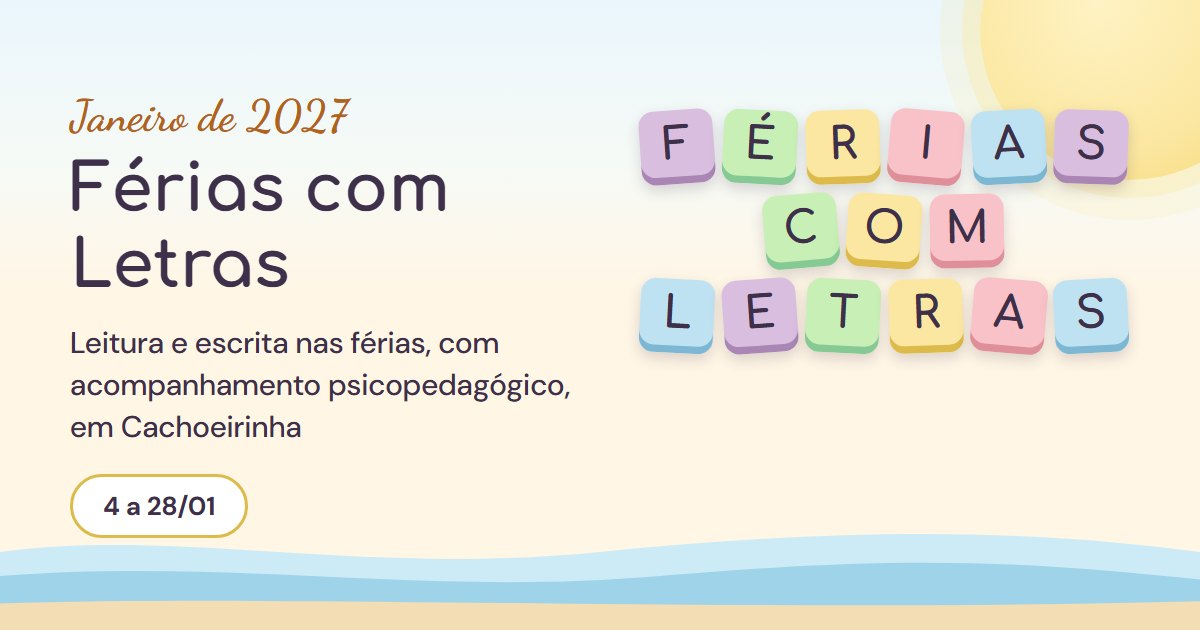
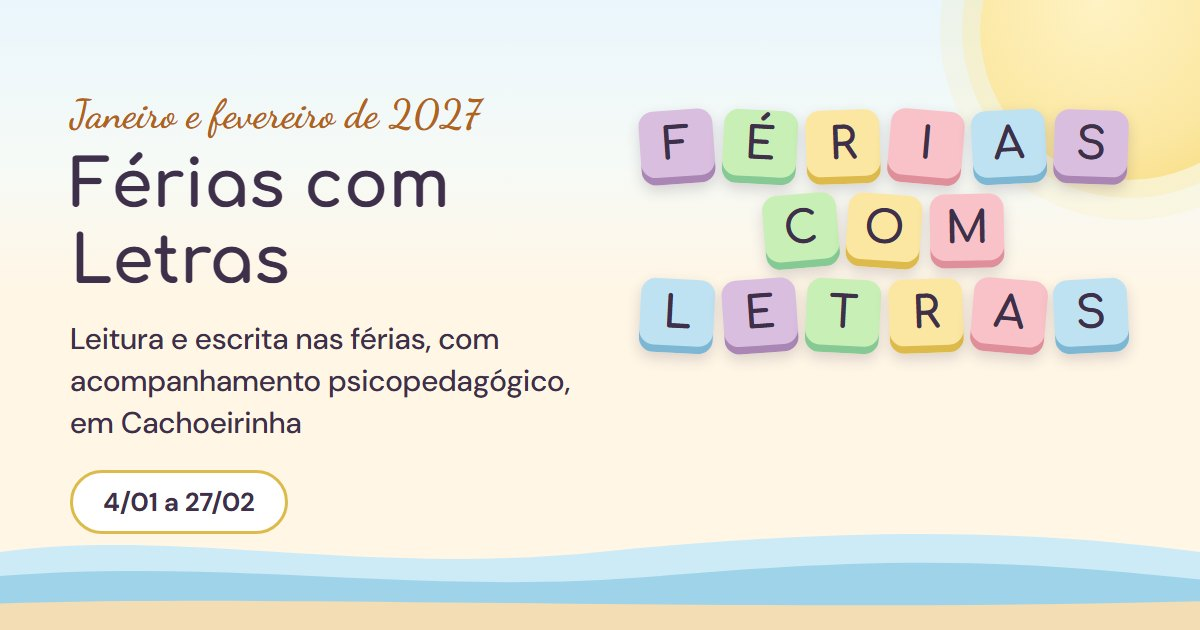
Amplia o Férias com Letras para janeiro e fevereiro
O programa vale de 4 de janeiro a 27 de fevereiro de 2027, com pausa de 29/01
a 10/02 nas férias do consultório. Ajusta textos, regra de falta, perguntas e o
calendário da página.

diff --git a/site/ferias-com-letras/index.html b/site/ferias-com-letras/index.html
@@ -5,7 +5,7 @@
   <meta name="viewport" content="width=device-width, initial-scale=1.0">
 
   <title>Férias com Letras: reforço de leitura e escrita nas férias | Cachoeirinha</title>
-  <meta name="description" content="Em janeiro de 2027, atendimento psicopedagógico individual de leitura e escrita para crianças de 5 a 9 anos, em Cachoeirinha/RS. Planos de 4 ou 8 sessões, de 4 a 28 de janeiro.">
+  <meta name="description" content="Em janeiro e fevereiro de 2027, atendimento psicopedagógico individual de leitura e escrita para crianças de 5 a 9 anos, em Cachoeirinha/RS. Planos de 4 ou 8 sessões, até 27 de fevereiro.">
   <meta name="author" content="Larissa Nunes">
   <meta name="robots" content="noindex, follow">
   <link rel="canonical" href="https://larissanunes.com.br/ferias-com-letras/">
@@ -15,7 +15,7 @@
   <meta property="og:url" content="https://larissanunes.com.br/ferias-com-letras/">
   <meta property="og:site_name" content="Larissa Nunes — Neuro Psicopedagoga">
   <meta property="og:title" content="Férias com Letras: reforço de leitura e escrita nas férias | Cachoeirinha">
-  <meta property="og:description" content="Em janeiro de 2027, atendimento psicopedagógico individual de leitura e escrita para crianças de 5 a 9 anos, em Cachoeirinha/RS. Planos de 4 ou 8 sessões, de 4 a 28 de janeiro.">
+  <meta property="og:description" content="Em janeiro e fevereiro de 2027, atendimento psicopedagógico individual de leitura e escrita para crianças de 5 a 9 anos, em Cachoeirinha/RS. Planos de 4 ou 8 sessões, até 27 de fevereiro.">
   <meta property="og:image" content="https://larissanunes.com.br/assets/img/ferias-com-letras/og.jpg">
   <meta property="og:image:width" content="1200">
   <meta property="og:image:height" content="1200">
@@ -67,7 +67,7 @@
     {
       "@type": "Service",
       "name": "Férias com Letras: leitura e escrita nas férias",
-      "description": "Em janeiro de 2027, atendimento psicopedagógico individual de leitura e escrita para crianças de 5 a 9 anos, em Cachoeirinha/RS. Planos de 4 ou 8 sessões, de 4 a 28 de janeiro.",
+      "description": "Em janeiro e fevereiro de 2027, atendimento psicopedagógico individual de leitura e escrita para crianças de 5 a 9 anos, em Cachoeirinha/RS. Planos de 4 ou 8 sessões, até 27 de fevereiro.",
       "provider": {
         "@id": "https://larissanunes.com.br/#business"
       },
@@ -123,15 +123,23 @@
           "name": "E se a criança faltar?",
           "acceptedAnswer": {
             "@type": "Answer",
-            "text": "Avisando com 24 horas de antecedência, a sessão é remarcada até 28/01. Se não houver horário, o valor da sessão é devolvido."
+            "text": "Avisando com 24 horas de antecedência, a sessão é remarcada até 27/02. Se não houver horário, o valor da sessão é devolvido."
           }
         },
         {
           "@type": "Question",
-          "name": "O que acontece depois de janeiro?",
+          "name": "Posso fazer as sessões só em fevereiro?",
           "acceptedAnswer": {
             "@type": "Answer",
-            "text": "Você recebe um retorno por escrito. Se fizer sentido continuar, o acompanhamento segue a partir de fevereiro, depois do Carnaval."
+            "text": "Pode. As sessões dos planos podem ser marcadas de 4 a 28 de janeiro e de 11 a 27 de fevereiro, conforme os horários livres."
+          }
+        },
+        {
+          "@type": "Question",
+          "name": "O que acontece depois do programa?",
+          "acceptedAnswer": {
+            "@type": "Answer",
+            "text": "Você recebe um retorno por escrito. Se fizer sentido continuar, o acompanhamento segue normalmente a partir de março."
           }
         }
       ]
@@ -186,8 +194,8 @@
         <nav class="trilha" aria-label="Você está em"><a href="/">Início</a> <span aria-hidden="true">›</span> <span>Férias com Letras</span></nav>
         <span class="blocos" aria-hidden="true"><span class="bloco bloco--sol">F</span></span>
         <h1 class="pagina-topo__titulo">Férias com Letras: leitura e escrita nas férias</h1>
-        <p class="pagina-topo__lead">De 4 a 28 de janeiro de 2027, atendimento individual para crianças que estão aprendendo a ler e escrever. Não é aula de reforço: é acompanhamento psicopedagógico, com jogos e no ritmo de cada criança.</p>
-        <a href="https://wa.me/5551984723551?text=Ol%C3%A1%2C%20Larissa%21%20Vi%20o%20F%C3%A9rias%20com%20Letras%20no%20site%20e%20quero%20saber%20das%20vagas%20de%20janeiro." class="btn btn--acao btn--grande" target="_blank" rel="noopener"><svg width="20" height="20" viewBox="0 0 24 24" fill="currentColor" aria-hidden="true"><path d="M17.472 14.382c-.297-.149-1.758-.867-2.03-.967-.273-.099-.471-.148-.67.15-.197.297-.767.966-.94 1.164-.173.199-.347.223-.644.075-.297-.15-1.255-.463-2.39-1.475-.883-.788-1.48-1.761-1.653-2.059-.173-.297-.018-.458.13-.606.134-.133.298-.347.446-.52.149-.174.198-.298.298-.497.099-.198.05-.371-.025-.52-.075-.149-.669-1.612-.916-2.207-.242-.579-.487-.5-.669-.51-.173-.008-.371-.01-.57-.01-.198 0-.52.074-.792.372-.272.297-1.04 1.016-1.04 2.479 0 1.462 1.065 2.875 1.213 3.074.149.198 2.096 3.2 5.077 4.487.709.306 1.262.489 1.694.625.712.227 1.36.195 1.871.118.571-.085 1.758-.719 2.006-1.413.248-.694.248-1.289.173-1.413-.074-.124-.272-.198-.57-.347z"/><path d="M12 0C5.373 0 0 5.373 0 12c0 2.625.846 5.059 2.284 7.034L.789 23.492a.5.5 0 00.611.611l4.458-1.495A11.94 11.94 0 0012 24c6.627 0 12-5.373 12-12S18.627 0 12 0zm0 22c-2.387 0-4.597-.838-6.328-2.236l-.442-.37-3.234 1.084 1.084-3.234-.37-.442A9.96 9.96 0 012 12C2 6.477 6.477 2 12 2s10 4.477 10 10-4.477 10-10 10z"/></svg> Quero saber das vagas</a>
+        <p class="pagina-topo__lead">De 4 de janeiro a 27 de fevereiro de 2027, atendimento individual para crianças que estão aprendendo a ler e escrever. Não é aula de reforço: é acompanhamento psicopedagógico, com jogos e no ritmo de cada criança.</p>
+        <a href="https://wa.me/5551984723551?text=Ol%C3%A1%2C%20Larissa%21%20Vi%20o%20F%C3%A9rias%20com%20Letras%20no%20site%20e%20quero%20saber%20das%20vagas." class="btn btn--acao btn--grande" target="_blank" rel="noopener"><svg width="20" height="20" viewBox="0 0 24 24" fill="currentColor" aria-hidden="true"><path d="M17.472 14.382c-.297-.149-1.758-.867-2.03-.967-.273-.099-.471-.148-.67.15-.197.297-.767.966-.94 1.164-.173.199-.347.223-.644.075-.297-.15-1.255-.463-2.39-1.475-.883-.788-1.48-1.761-1.653-2.059-.173-.297-.018-.458.13-.606.134-.133.298-.347.446-.52.149-.174.198-.298.298-.497.099-.198.05-.371-.025-.52-.075-.149-.669-1.612-.916-2.207-.242-.579-.487-.5-.669-.51-.173-.008-.371-.01-.57-.01-.198 0-.52.074-.792.372-.272.297-1.04 1.016-1.04 2.479 0 1.462 1.065 2.875 1.213 3.074.149.198 2.096 3.2 5.077 4.487.709.306 1.262.489 1.694.625.712.227 1.36.195 1.871.118.571-.085 1.758-.719 2.006-1.413.248-.694.248-1.289.173-1.413-.074-.124-.272-.198-.57-.347z"/><path d="M12 0C5.373 0 0 5.373 0 12c0 2.625.846 5.059 2.284 7.034L.789 23.492a.5.5 0 00.611.611l4.458-1.495A11.94 11.94 0 0012 24c6.627 0 12-5.373 12-12S18.627 0 12 0zm0 22c-2.387 0-4.597-.838-6.328-2.236l-.442-.37-3.234 1.084 1.084-3.234-.37-.442A9.96 9.96 0 012 12C2 6.477 6.477 2 12 2s10 4.477 10 10-4.477 10-10 10z"/></svg> Quero saber das vagas</a>
       </div>
     </section>
 
@@ -209,14 +217,14 @@
         </ul>
         <p>Também é para quem vai começar o 1º ano em 2027.</p>
 
-        <h2>Por que em janeiro</h2>
-        <p>Nas férias não tem prova nem tarefa da escola, e a criança costuma chegar mais descansada. O tempo da sessão é todo para ler e escrever, com jogos e atividades que usam o corpo, a visão e a audição. Cada atendimento é individual, no ritmo dela.</p>
+        <h2>Por que no verão</h2>
+        <p>Em janeiro não tem prova nem tarefa, e em fevereiro as aulas estão só começando: é um bom momento para a criança ganhar segurança antes de o ano letivo pegar ritmo. O tempo da sessão é todo para ler e escrever, com jogos e atividades que usam o corpo, a visão e a audição. Cada atendimento é individual, no ritmo dela.</p>
 
         <h2>Como funciona</h2>
         <ol>
           <li><strong>Primeira sessão.</strong> Conheço a criança e vejo como ela está lendo e escrevendo, para planejar as outras sessões. Não é avaliação diagnóstica.</li>
           <li><strong>Sessões individuais.</strong> Jogos e atividades escolhidos para o que ela precisa praticar.</li>
-          <li><strong>Retorno por escrito.</strong> No fim de janeiro, você recebe o que trabalhamos, o que observei e o que vale continuar em casa e na escola.</li>
+          <li><strong>Retorno por escrito.</strong> Ao terminar as sessões, você recebe o que trabalhamos, o que observei e o que vale continuar em casa e na escola.</li>
         </ol>
 
         <h2>Os dois planos</h2>
@@ -239,18 +247,18 @@
         <h2>Calendário</h2>
         <div class="calendario" >
         
-        <ul class="calendario__resumo"><li>O consultório fecha de <strong>23 de dezembro a 1º de janeiro</strong> (recesso de fim de ano).</li><li>Em janeiro, de <strong>4 a 28/01</strong>, acontece o Férias com Letras, junto com os atendimentos de sempre.</li><li>De <strong>29 de janeiro a 10 de fevereiro</strong>, o consultório fica fechado para férias.</li><li>Os atendimentos voltam em <strong>11 de fevereiro</strong>.</li></ul>
-        <div class="calendario__meses"><table class="cal__mes cal__mes--12"><caption>Dezembro 2026</caption><thead><tr><th scope="col"><abbr title="domingo">D</abbr></th><th scope="col"><abbr title="segunda">S</abbr></th><th scope="col"><abbr title="terça">T</abbr></th><th scope="col"><abbr title="quarta">Q</abbr></th><th scope="col"><abbr title="quinta">Q</abbr></th><th scope="col"><abbr title="sexta">S</abbr></th><th scope="col"><abbr title="sábado">S</abbr></th></tr></thead><tbody><tr><td class="cal__vazio"></td><td class="cal__vazio"></td><td><span>1</span></td><td><span>2</span></td><td><span>3</span></td><td><span>4</span></td><td><span>5</span></td></tr><tr><td class="cal__domingo"><span>6</span></td><td><span>7</span></td><td><span>8</span></td><td><span>9</span></td><td><span>10</span></td><td><span>11</span></td><td><span>12</span></td></tr><tr><td class="cal__domingo"><span>13</span></td><td><span>14</span></td><td><span>15</span></td><td><span>16</span></td><td><span>17</span></td><td><span>18</span></td><td><span>19</span></td></tr><tr><td class="cal__domingo"><span>20</span></td><td><span>21</span></td><td><span>22</span></td><td class="cal__dia--recesso"><span>23</span><span class="sr-only"> (Recesso de fim de ano)</span></td><td class="cal__dia--recesso"><span>24</span><span class="sr-only"> (Recesso de fim de ano)</span></td><td class="cal__dia--feriado"><span>25</span><span class="sr-only"> (Feriados)</span></td><td class="cal__dia--recesso"><span>26</span><span class="sr-only"> (Recesso de fim de ano)</span></td></tr><tr><td class="cal__dia--recesso"><span>27</span><span class="sr-only"> (Recesso de fim de ano)</span></td><td class="cal__dia--recesso"><span>28</span><span class="sr-only"> (Recesso de fim de ano)</span></td><td class="cal__dia--recesso"><span>29</span><span class="sr-only"> (Recesso de fim de ano)</span></td><td class="cal__dia--recesso"><span>30</span><span class="sr-only"> (Recesso de fim de ano)</span></td><td class="cal__dia--recesso"><span>31</span><span class="sr-only"> (Recesso de fim de ano)</span></td><td class="cal__vazio"></td><td class="cal__vazio"></td></tr></tbody></table><table class="cal__mes cal__mes--1"><caption>Janeiro 2027</caption><thead><tr><th scope="col"><abbr title="domingo">D</abbr></th><th scope="col"><abbr title="segunda">S</abbr></th><th scope="col"><abbr title="terça">T</abbr></th><th scope="col"><abbr title="quarta">Q</abbr></th><th scope="col"><abbr title="quinta">Q</abbr></th><th scope="col"><abbr title="sexta">S</abbr></th><th scope="col"><abbr title="sábado">S</abbr></th></tr></thead><tbody><tr><td class="cal__vazio"></td><td class="cal__vazio"></td><td class="cal__vazio"></td><td class="cal__vazio"></td><td class="cal__vazio"></td><td class="cal__dia--feriado"><span>1</span><span class="sr-only"> (Feriados)</span></td><td><span>2</span></td></tr><tr><td class="cal__domingo"><span>3</span></td><td class="cal__dia--programa"><span>4</span><span class="sr-only"> (Férias com Letras)</span></td><td class="cal__dia--programa"><span>5</span><span class="sr-only"> (Férias com Letras)</span></td><td class="cal__dia--programa"><span>6</span><span class="sr-only"> (Férias com Letras)</span></td><td class="cal__dia--programa"><span>7</span><span class="sr-only"> (Férias com Letras)</span></td><td class="cal__dia--programa"><span>8</span><span class="sr-only"> (Férias com Letras)</span></td><td class="cal__dia--programa"><span>9</span><span class="sr-only"> (Férias com Letras)</span></td></tr><tr><td class="cal__domingo"><span>10</span></td><td class="cal__dia--programa"><span>11</span><span class="sr-only"> (Férias com Letras)</span></td><td class="cal__dia--programa"><span>12</span><span class="sr-only"> (Férias com Letras)</span></td><td class="cal__dia--programa"><span>13</span><span class="sr-only"> (Férias com Letras)</span></td><td class="cal__dia--programa"><span>14</span><span class="sr-only"> (Férias com Letras)</span></td><td class="cal__dia--programa"><span>15</span><span class="sr-only"> (Férias com Letras)</span></td><td class="cal__dia--programa"><span>16</span><span class="sr-only"> (Férias com Letras)</span></td></tr><tr><td class="cal__domingo"><span>17</span></td><td class="cal__dia--programa"><span>18</span><span class="sr-only"> (Férias com Letras)</span></td><td class="cal__dia--programa"><span>19</span><span class="sr-only"> (Férias com Letras)</span></td><td class="cal__dia--programa"><span>20</span><span class="sr-only"> (Férias com Letras)</span></td><td class="cal__dia--programa"><span>21</span><span class="sr-only"> (Férias com Letras)</span></td><td class="cal__dia--programa"><span>22</span><span class="sr-only"> (Férias com Letras)</span></td><td class="cal__dia--programa"><span>23</span><span class="sr-only"> (Férias com Letras)</span></td></tr><tr><td class="cal__domingo"><span>24</span></td><td class="cal__dia--programa"><span>25</span><span class="sr-only"> (Férias com Letras)</span></td><td class="cal__dia--programa"><span>26</span><span class="sr-only"> (Férias com Letras)</span></td><td class="cal__dia--programa"><span>27</span><span class="sr-only"> (Férias com Letras)</span></td><td class="cal__dia--programa"><span>28</span><span class="sr-only"> (Férias com Letras)</span></td><td class="cal__dia--ferias"><span>29</span><span class="sr-only"> (Férias do consultório)</span></td><td class="cal__dia--ferias"><span>30</span><span class="sr-only"> (Férias do consultório)</span></td></tr><tr><td class="cal__dia--ferias"><span>31</span><span class="sr-only"> (Férias do consultório)</span></td><td class="cal__vazio"></td><td class="cal__vazio"></td><td class="cal__vazio"></td><td class="cal__vazio"></td><td class="cal__vazio"></td><td class="cal__vazio"></td></tr></tbody></table><table class="cal__mes cal__mes--2"><caption>Fevereiro 2027</caption><thead><tr><th scope="col"><abbr title="domingo">D</abbr></th><th scope="col"><abbr title="segunda">S</abbr></th><th scope="col"><abbr title="terça">T</abbr></th><th scope="col"><abbr title="quarta">Q</abbr></th><th scope="col"><abbr title="quinta">Q</abbr></th><th scope="col"><abbr title="sexta">S</abbr></th><th scope="col"><abbr title="sábado">S</abbr></th></tr></thead><tbody><tr><td class="cal__vazio"></td><td class="cal__dia--ferias"><span>1</span><span class="sr-only"> (Férias do consultório)</span></td><td class="cal__dia--ferias"><span>2</span><span class="sr-only"> (Férias do consultório)</span></td><td class="cal__dia--ferias"><span>3</span><span class="sr-only"> (Férias do consultório)</span></td><td class="cal__dia--ferias"><span>4</span><span class="sr-only"> (Férias do consultório)</span></td><td class="cal__dia--ferias"><span>5</span><span class="sr-only"> (Férias do consultório)</span></td><td class="cal__dia--ferias"><span>6</span><span class="sr-only"> (Férias do consultório)</span></td></tr><tr><td class="cal__dia--ferias"><span>7</span><span class="sr-only"> (Férias do consultório)</span></td><td class="cal__dia--ferias"><span>8</span><span class="sr-only"> (Férias do consultório)</span></td><td class="cal__dia--ferias"><span>9</span><span class="sr-only"> (Férias do consultório)</span></td><td class="cal__dia--ferias"><span>10</span><span class="sr-only"> (Férias do consultório)</span></td><td class="cal__dia--retorno"><span>11</span><span class="sr-only"> (Volta dos atendimentos)</span></td><td><span>12</span></td><td><span>13</span></td></tr><tr><td class="cal__domingo"><span>14</span></td><td><span>15</span></td><td><span>16</span></td><td><span>17</span></td><td><span>18</span></td><td><span>19</span></td><td><span>20</span></td></tr><tr><td class="cal__domingo"><span>21</span></td><td><span>22</span></td><td><span>23</span></td><td><span>24</span></td><td><span>25</span></td><td><span>26</span></td><td><span>27</span></td></tr><tr><td class="cal__domingo"><span>28</span></td><td class="cal__vazio"></td><td class="cal__vazio"></td><td class="cal__vazio"></td><td class="cal__vazio"></td><td class="cal__vazio"></td><td class="cal__vazio"></td></tr></tbody></table></div>
-        <ul class="calendario__legenda"><li><span class="cal__cor cal__dia--feriado" aria-hidden="true"></span><strong>Feriados</strong> 25/12 e 01/01</li><li><span class="cal__cor cal__dia--recesso" aria-hidden="true"></span><strong>Recesso de fim de ano</strong> 23/12 a 31/12</li><li><span class="cal__cor cal__dia--programa" aria-hidden="true"></span><strong>Férias com Letras</strong> 04/01 a 28/01</li><li><span class="cal__cor cal__dia--ferias" aria-hidden="true"></span><strong>Férias do consultório</strong> 29/01 a 10/02</li><li><span class="cal__cor cal__dia--retorno" aria-hidden="true"></span><strong>Volta dos atendimentos</strong> 11/02</li></ul>
+        <ul class="calendario__resumo"><li>O consultório fecha de <strong>23 de dezembro a 1º de janeiro</strong> (recesso de fim de ano).</li><li>O Férias com Letras acontece de <strong>4 a 28/01</strong> e de <strong>11 a 27/02</strong>, junto com os atendimentos de sempre.</li><li>De <strong>29 de janeiro a 10 de fevereiro</strong>, o consultório fica fechado para férias.</li><li>Os atendimentos voltam em <strong>11 de fevereiro</strong>.</li></ul>
+        <div class="calendario__meses"><table class="cal__mes cal__mes--12"><caption>Dezembro 2026</caption><thead><tr><th scope="col"><abbr title="domingo">D</abbr></th><th scope="col"><abbr title="segunda">S</abbr></th><th scope="col"><abbr title="terça">T</abbr></th><th scope="col"><abbr title="quarta">Q</abbr></th><th scope="col"><abbr title="quinta">Q</abbr></th><th scope="col"><abbr title="sexta">S</abbr></th><th scope="col"><abbr title="sábado">S</abbr></th></tr></thead><tbody><tr><td class="cal__vazio"></td><td class="cal__vazio"></td><td><span>1</span></td><td><span>2</span></td><td><span>3</span></td><td><span>4</span></td><td><span>5</span></td></tr><tr><td class="cal__domingo"><span>6</span></td><td><span>7</span></td><td><span>8</span></td><td><span>9</span></td><td><span>10</span></td><td><span>11</span></td><td><span>12</span></td></tr><tr><td class="cal__domingo"><span>13</span></td><td><span>14</span></td><td><span>15</span></td><td><span>16</span></td><td><span>17</span></td><td><span>18</span></td><td><span>19</span></td></tr><tr><td class="cal__domingo"><span>20</span></td><td><span>21</span></td><td><span>22</span></td><td class="cal__dia--recesso"><span>23</span><span class="sr-only"> (Recesso de fim de ano)</span></td><td class="cal__dia--recesso"><span>24</span><span class="sr-only"> (Recesso de fim de ano)</span></td><td class="cal__dia--feriado"><span>25</span><span class="sr-only"> (Feriados)</span></td><td class="cal__dia--recesso"><span>26</span><span class="sr-only"> (Recesso de fim de ano)</span></td></tr><tr><td class="cal__dia--recesso"><span>27</span><span class="sr-only"> (Recesso de fim de ano)</span></td><td class="cal__dia--recesso"><span>28</span><span class="sr-only"> (Recesso de fim de ano)</span></td><td class="cal__dia--recesso"><span>29</span><span class="sr-only"> (Recesso de fim de ano)</span></td><td class="cal__dia--recesso"><span>30</span><span class="sr-only"> (Recesso de fim de ano)</span></td><td class="cal__dia--recesso"><span>31</span><span class="sr-only"> (Recesso de fim de ano)</span></td><td class="cal__vazio"></td><td class="cal__vazio"></td></tr></tbody></table><table class="cal__mes cal__mes--1"><caption>Janeiro 2027</caption><thead><tr><th scope="col"><abbr title="domingo">D</abbr></th><th scope="col"><abbr title="segunda">S</abbr></th><th scope="col"><abbr title="terça">T</abbr></th><th scope="col"><abbr title="quarta">Q</abbr></th><th scope="col"><abbr title="quinta">Q</abbr></th><th scope="col"><abbr title="sexta">S</abbr></th><th scope="col"><abbr title="sábado">S</abbr></th></tr></thead><tbody><tr><td class="cal__vazio"></td><td class="cal__vazio"></td><td class="cal__vazio"></td><td class="cal__vazio"></td><td class="cal__vazio"></td><td class="cal__dia--feriado"><span>1</span><span class="sr-only"> (Feriados)</span></td><td><span>2</span></td></tr><tr><td class="cal__domingo"><span>3</span></td><td class="cal__dia--programa"><span>4</span><span class="sr-only"> (Férias com Letras)</span></td><td class="cal__dia--programa"><span>5</span><span class="sr-only"> (Férias com Letras)</span></td><td class="cal__dia--programa"><span>6</span><span class="sr-only"> (Férias com Letras)</span></td><td class="cal__dia--programa"><span>7</span><span class="sr-only"> (Férias com Letras)</span></td><td class="cal__dia--programa"><span>8</span><span class="sr-only"> (Férias com Letras)</span></td><td class="cal__dia--programa"><span>9</span><span class="sr-only"> (Férias com Letras)</span></td></tr><tr><td class="cal__domingo"><span>10</span></td><td class="cal__dia--programa"><span>11</span><span class="sr-only"> (Férias com Letras)</span></td><td class="cal__dia--programa"><span>12</span><span class="sr-only"> (Férias com Letras)</span></td><td class="cal__dia--programa"><span>13</span><span class="sr-only"> (Férias com Letras)</span></td><td class="cal__dia--programa"><span>14</span><span class="sr-only"> (Férias com Letras)</span></td><td class="cal__dia--programa"><span>15</span><span class="sr-only"> (Férias com Letras)</span></td><td class="cal__dia--programa"><span>16</span><span class="sr-only"> (Férias com Letras)</span></td></tr><tr><td class="cal__domingo"><span>17</span></td><td class="cal__dia--programa"><span>18</span><span class="sr-only"> (Férias com Letras)</span></td><td class="cal__dia--programa"><span>19</span><span class="sr-only"> (Férias com Letras)</span></td><td class="cal__dia--programa"><span>20</span><span class="sr-only"> (Férias com Letras)</span></td><td class="cal__dia--programa"><span>21</span><span class="sr-only"> (Férias com Letras)</span></td><td class="cal__dia--programa"><span>22</span><span class="sr-only"> (Férias com Letras)</span></td><td class="cal__dia--programa"><span>23</span><span class="sr-only"> (Férias com Letras)</span></td></tr><tr><td class="cal__domingo"><span>24</span></td><td class="cal__dia--programa"><span>25</span><span class="sr-only"> (Férias com Letras)</span></td><td class="cal__dia--programa"><span>26</span><span class="sr-only"> (Férias com Letras)</span></td><td class="cal__dia--programa"><span>27</span><span class="sr-only"> (Férias com Letras)</span></td><td class="cal__dia--programa"><span>28</span><span class="sr-only"> (Férias com Letras)</span></td><td class="cal__dia--ferias"><span>29</span><span class="sr-only"> (Férias do consultório)</span></td><td class="cal__dia--ferias"><span>30</span><span class="sr-only"> (Férias do consultório)</span></td></tr><tr><td class="cal__dia--ferias"><span>31</span><span class="sr-only"> (Férias do consultório)</span></td><td class="cal__vazio"></td><td class="cal__vazio"></td><td class="cal__vazio"></td><td class="cal__vazio"></td><td class="cal__vazio"></td><td class="cal__vazio"></td></tr></tbody></table><table class="cal__mes cal__mes--2"><caption>Fevereiro 2027</caption><thead><tr><th scope="col"><abbr title="domingo">D</abbr></th><th scope="col"><abbr title="segunda">S</abbr></th><th scope="col"><abbr title="terça">T</abbr></th><th scope="col"><abbr title="quarta">Q</abbr></th><th scope="col"><abbr title="quinta">Q</abbr></th><th scope="col"><abbr title="sexta">S</abbr></th><th scope="col"><abbr title="sábado">S</abbr></th></tr></thead><tbody><tr><td class="cal__vazio"></td><td class="cal__dia--ferias"><span>1</span><span class="sr-only"> (Férias do consultório)</span></td><td class="cal__dia--ferias"><span>2</span><span class="sr-only"> (Férias do consultório)</span></td><td class="cal__dia--ferias"><span>3</span><span class="sr-only"> (Férias do consultório)</span></td><td class="cal__dia--ferias"><span>4</span><span class="sr-only"> (Férias do consultório)</span></td><td class="cal__dia--ferias"><span>5</span><span class="sr-only"> (Férias do consultório)</span></td><td class="cal__dia--ferias"><span>6</span><span class="sr-only"> (Férias do consultório)</span></td></tr><tr><td class="cal__dia--ferias"><span>7</span><span class="sr-only"> (Férias do consultório)</span></td><td class="cal__dia--ferias"><span>8</span><span class="sr-only"> (Férias do consultório)</span></td><td class="cal__dia--ferias"><span>9</span><span class="sr-only"> (Férias do consultório)</span></td><td class="cal__dia--ferias"><span>10</span><span class="sr-only"> (Férias do consultório)</span></td><td class="cal__dia--retorno"><span>11</span><span class="sr-only"> (Volta dos atendimentos)</span></td><td class="cal__dia--programa"><span>12</span><span class="sr-only"> (Férias com Letras)</span></td><td class="cal__dia--programa"><span>13</span><span class="sr-only"> (Férias com Letras)</span></td></tr><tr><td class="cal__domingo"><span>14</span></td><td class="cal__dia--programa"><span>15</span><span class="sr-only"> (Férias com Letras)</span></td><td class="cal__dia--programa"><span>16</span><span class="sr-only"> (Férias com Letras)</span></td><td class="cal__dia--programa"><span>17</span><span class="sr-only"> (Férias com Letras)</span></td><td class="cal__dia--programa"><span>18</span><span class="sr-only"> (Férias com Letras)</span></td><td class="cal__dia--programa"><span>19</span><span class="sr-only"> (Férias com Letras)</span></td><td class="cal__dia--programa"><span>20</span><span class="sr-only"> (Férias com Letras)</span></td></tr><tr><td class="cal__domingo"><span>21</span></td><td class="cal__dia--programa"><span>22</span><span class="sr-only"> (Férias com Letras)</span></td><td class="cal__dia--programa"><span>23</span><span class="sr-only"> (Férias com Letras)</span></td><td class="cal__dia--programa"><span>24</span><span class="sr-only"> (Férias com Letras)</span></td><td class="cal__dia--programa"><span>25</span><span class="sr-only"> (Férias com Letras)</span></td><td class="cal__dia--programa"><span>26</span><span class="sr-only"> (Férias com Letras)</span></td><td class="cal__dia--programa"><span>27</span><span class="sr-only"> (Férias com Letras)</span></td></tr><tr><td class="cal__domingo"><span>28</span></td><td class="cal__vazio"></td><td class="cal__vazio"></td><td class="cal__vazio"></td><td class="cal__vazio"></td><td class="cal__vazio"></td><td class="cal__vazio"></td></tr></tbody></table></div>
+        <ul class="calendario__legenda"><li><span class="cal__cor cal__dia--feriado" aria-hidden="true"></span><strong>Feriados</strong> 25/12 e 01/01</li><li><span class="cal__cor cal__dia--recesso" aria-hidden="true"></span><strong>Recesso de fim de ano</strong> 23/12 a 31/12</li><li><span class="cal__cor cal__dia--ferias" aria-hidden="true"></span><strong>Férias do consultório</strong> 29/01 a 10/02</li><li><span class="cal__cor cal__dia--retorno" aria-hidden="true"></span><strong>Volta dos atendimentos</strong> 11/02</li><li><span class="cal__cor cal__dia--programa" aria-hidden="true"></span><strong>Férias com Letras</strong> 04/01 a 28/01 e 11/02 a 27/02</li></ul>
       </div>
 
         <h2>Condições</h2>
         <ul>
-          <li>10 vagas, de 4 a 28 de janeiro de 2027, com agendamento prévio.</li>
+          <li>10 vagas, de 4 de janeiro a 27 de fevereiro de 2027, com agendamento prévio. De 29/01 a 10/02 não há atendimento, por causa das férias do consultório.</li>
           <li>Atendimento individual, no consultório, em dia e horário combinados na reserva.</li>
           <li>Pagamento por Pix, boleto ou cartão de crédito em até 3x sem juros.</li>
-          <li>Faltou avisando com 24 horas de antecedência? A sessão é remarcada até 28/01. Se não houver horário, o valor da sessão é devolvido.</li>
-          <li>Os planos valem só para janeiro de 2027 e não somam com outras promoções.</li>
+          <li>Faltou avisando com 24 horas de antecedência? A sessão é remarcada até 27/02. Se não houver horário, o valor da sessão é devolvido.</li>
+          <li>As sessões dos planos precisam ser feitas até 27 de fevereiro de 2027, e os planos não somam com outras promoções.</li>
         </ul>
         <p>O consultório fica na Av. Flores da Cunha, 1320, sala 301, em Cachoeirinha/RS, e recebe famílias de Cachoeirinha, Gravataí, Canoas, Alvorada, Esteio e da zona norte de Porto Alegre.</p>
       </div>
@@ -262,8 +270,9 @@
         <div class="faq__list">
           <details class="faq__item"><summary class="faq__question">É aula de reforço?</summary><div class="faq__answer"><p>Não. No reforço, a criança revisa o conteúdo da escola. Aqui o trabalho é psicopedagógico: entender como ela está aprendendo a ler e escrever e treinar as habilidades que estão faltando, com jogos e atividades.</p></div></details>
           <details class="faq__item"><summary class="faq__question">Meu filho precisa ter diagnóstico?</summary><div class="faq__answer"><p>Não. O programa é para qualquer criança em fase de alfabetização que esteja com dificuldade ou que a família queira fortalecer antes do ano letivo.</p></div></details>
-          <details class="faq__item"><summary class="faq__question">E se a criança faltar?</summary><div class="faq__answer"><p>Avisando com 24 horas de antecedência, a sessão é remarcada até 28/01. Se não houver horário, o valor da sessão é devolvido.</p></div></details>
-          <details class="faq__item"><summary class="faq__question">O que acontece depois de janeiro?</summary><div class="faq__answer"><p>Você recebe um retorno por escrito. Se fizer sentido continuar, o acompanhamento segue a partir de fevereiro, depois do Carnaval.</p></div></details>
+          <details class="faq__item"><summary class="faq__question">E se a criança faltar?</summary><div class="faq__answer"><p>Avisando com 24 horas de antecedência, a sessão é remarcada até 27/02. Se não houver horário, o valor da sessão é devolvido.</p></div></details>
+          <details class="faq__item"><summary class="faq__question">Posso fazer as sessões só em fevereiro?</summary><div class="faq__answer"><p>Pode. As sessões dos planos podem ser marcadas de 4 a 28 de janeiro e de 11 a 27 de fevereiro, conforme os horários livres.</p></div></details>
+          <details class="faq__item"><summary class="faq__question">O que acontece depois do programa?</summary><div class="faq__answer"><p>Você recebe um retorno por escrito. Se fizer sentido continuar, o acompanhamento segue normalmente a partir de março.</p></div></details>
         </div>
       </div>
     </section>
@@ -271,8 +280,8 @@
     <section class="section">
       <div class="container">
         <div class="contato__cta">
-          <p>São 10 vagas para janeiro. Me chame no WhatsApp para ver os horários.</p>
-          <a href="https://wa.me/5551984723551?text=Ol%C3%A1%2C%20Larissa%21%20Vi%20o%20F%C3%A9rias%20com%20Letras%20no%20site%20e%20quero%20saber%20das%20vagas%20de%20janeiro." class="btn btn--acao btn--grande" target="_blank" rel="noopener"><svg width="20" height="20" viewBox="0 0 24 24" fill="currentColor" aria-hidden="true"><path d="M17.472 14.382c-.297-.149-1.758-.867-2.03-.967-.273-.099-.471-.148-.67.15-.197.297-.767.966-.94 1.164-.173.199-.347.223-.644.075-.297-.15-1.255-.463-2.39-1.475-.883-.788-1.48-1.761-1.653-2.059-.173-.297-.018-.458.13-.606.134-.133.298-.347.446-.52.149-.174.198-.298.298-.497.099-.198.05-.371-.025-.52-.075-.149-.669-1.612-.916-2.207-.242-.579-.487-.5-.669-.51-.173-.008-.371-.01-.57-.01-.198 0-.52.074-.792.372-.272.297-1.04 1.016-1.04 2.479 0 1.462 1.065 2.875 1.213 3.074.149.198 2.096 3.2 5.077 4.487.709.306 1.262.489 1.694.625.712.227 1.36.195 1.871.118.571-.085 1.758-.719 2.006-1.413.248-.694.248-1.289.173-1.413-.074-.124-.272-.198-.57-.347z"/><path d="M12 0C5.373 0 0 5.373 0 12c0 2.625.846 5.059 2.284 7.034L.789 23.492a.5.5 0 00.611.611l4.458-1.495A11.94 11.94 0 0012 24c6.627 0 12-5.373 12-12S18.627 0 12 0zm0 22c-2.387 0-4.597-.838-6.328-2.236l-.442-.37-3.234 1.084 1.084-3.234-.37-.442A9.96 9.96 0 012 12C2 6.477 6.477 2 12 2s10 4.477 10 10-4.477 10-10 10z"/></svg> Falar com a Larissa no WhatsApp</a>
+          <p>São 10 vagas para janeiro e fevereiro. Me chame no WhatsApp para ver os horários.</p>
+          <a href="https://wa.me/5551984723551?text=Ol%C3%A1%2C%20Larissa%21%20Vi%20o%20F%C3%A9rias%20com%20Letras%20no%20site%20e%20quero%20saber%20das%20vagas." class="btn btn--acao btn--grande" target="_blank" rel="noopener"><svg width="20" height="20" viewBox="0 0 24 24" fill="currentColor" aria-hidden="true"><path d="M17.472 14.382c-.297-.149-1.758-.867-2.03-.967-.273-.099-.471-.148-.67.15-.197.297-.767.966-.94 1.164-.173.199-.347.223-.644.075-.297-.15-1.255-.463-2.39-1.475-.883-.788-1.48-1.761-1.653-2.059-.173-.297-.018-.458.13-.606.134-.133.298-.347.446-.52.149-.174.198-.298.298-.497.099-.198.05-.371-.025-.52-.075-.149-.669-1.612-.916-2.207-.242-.579-.487-.5-.669-.51-.173-.008-.371-.01-.57-.01-.198 0-.52.074-.792.372-.272.297-1.04 1.016-1.04 2.479 0 1.462 1.065 2.875 1.213 3.074.149.198 2.096 3.2 5.077 4.487.709.306 1.262.489 1.694.625.712.227 1.36.195 1.871.118.571-.085 1.758-.719 2.006-1.413.248-.694.248-1.289.173-1.413-.074-.124-.272-.198-.57-.347z"/><path d="M12 0C5.373 0 0 5.373 0 12c0 2.625.846 5.059 2.284 7.034L.789 23.492a.5.5 0 00.611.611l4.458-1.495A11.94 11.94 0 0012 24c6.627 0 12-5.373 12-12S18.627 0 12 0zm0 22c-2.387 0-4.597-.838-6.328-2.236l-.442-.37-3.234 1.084 1.084-3.234-.37-.442A9.96 9.96 0 012 12C2 6.477 6.477 2 12 2s10 4.477 10 10-4.477 10-10 10z"/></svg> Falar com a Larissa no WhatsApp</a>
           <p class="contato__endereco">Av. Flores da Cunha, 1320, sala 301, Cachoeirinha/RS · Segunda a sexta, 7h às 19h · Sábados, 7h às 12h</p>
         </div>
       </div>
